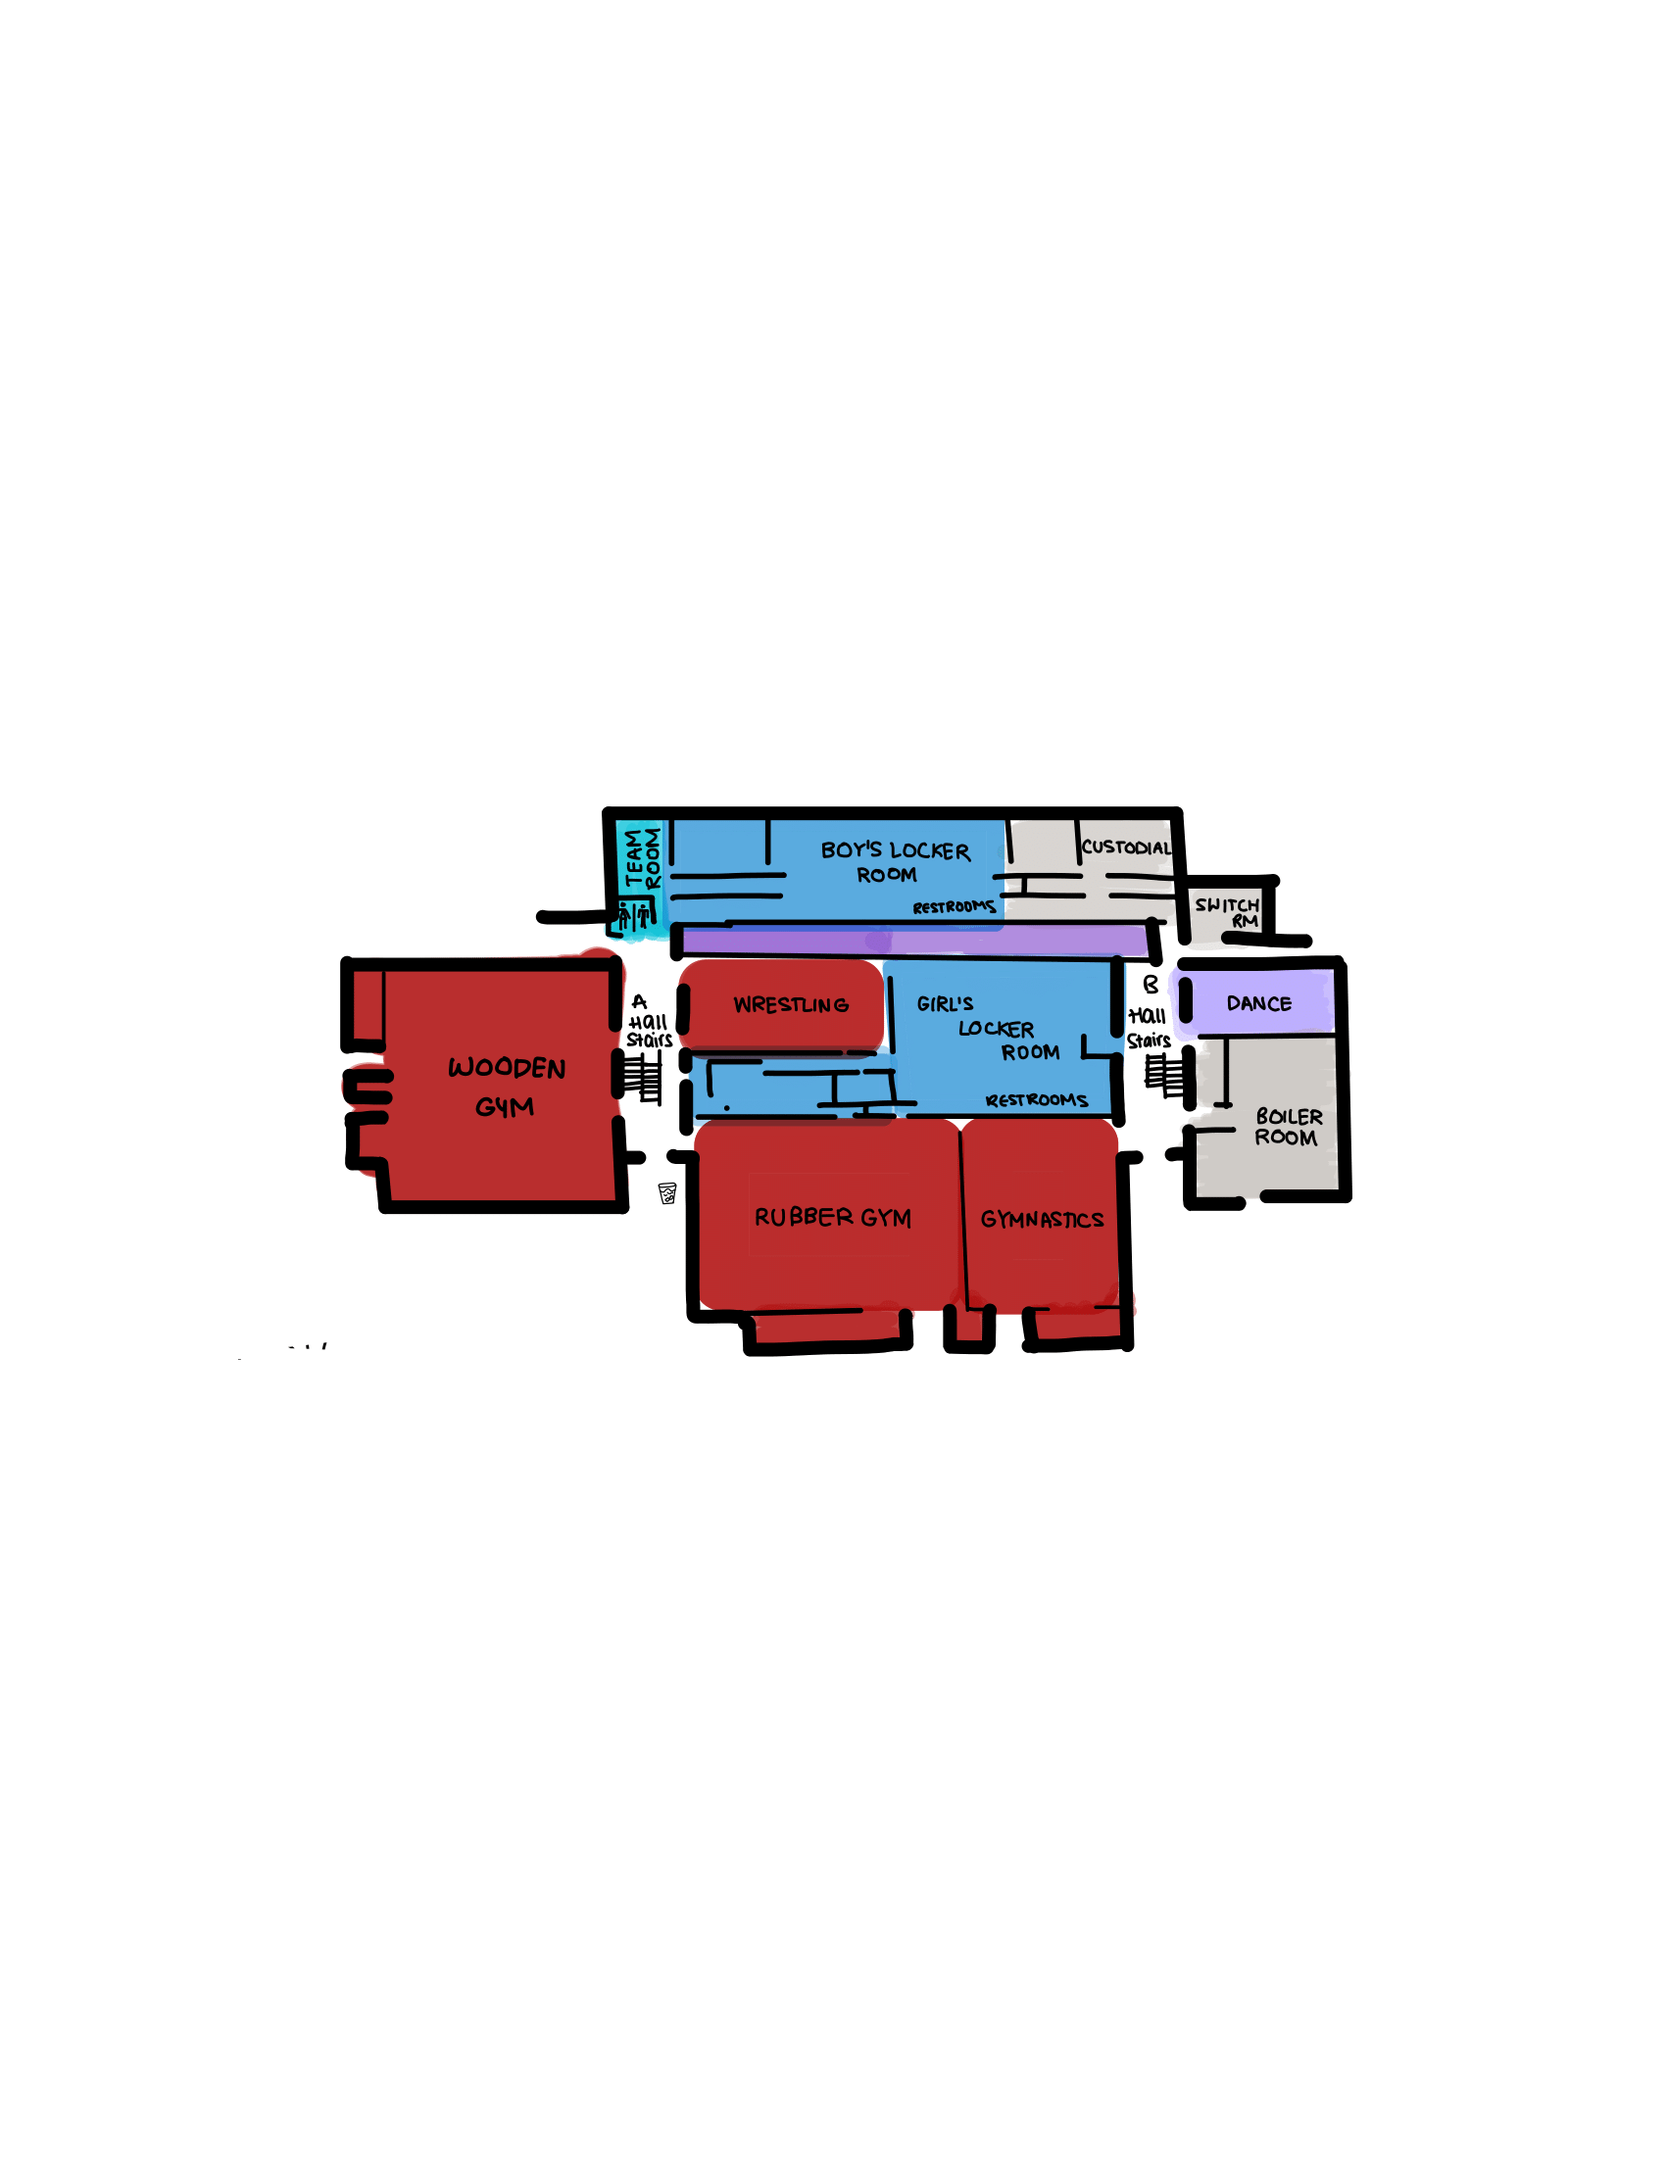
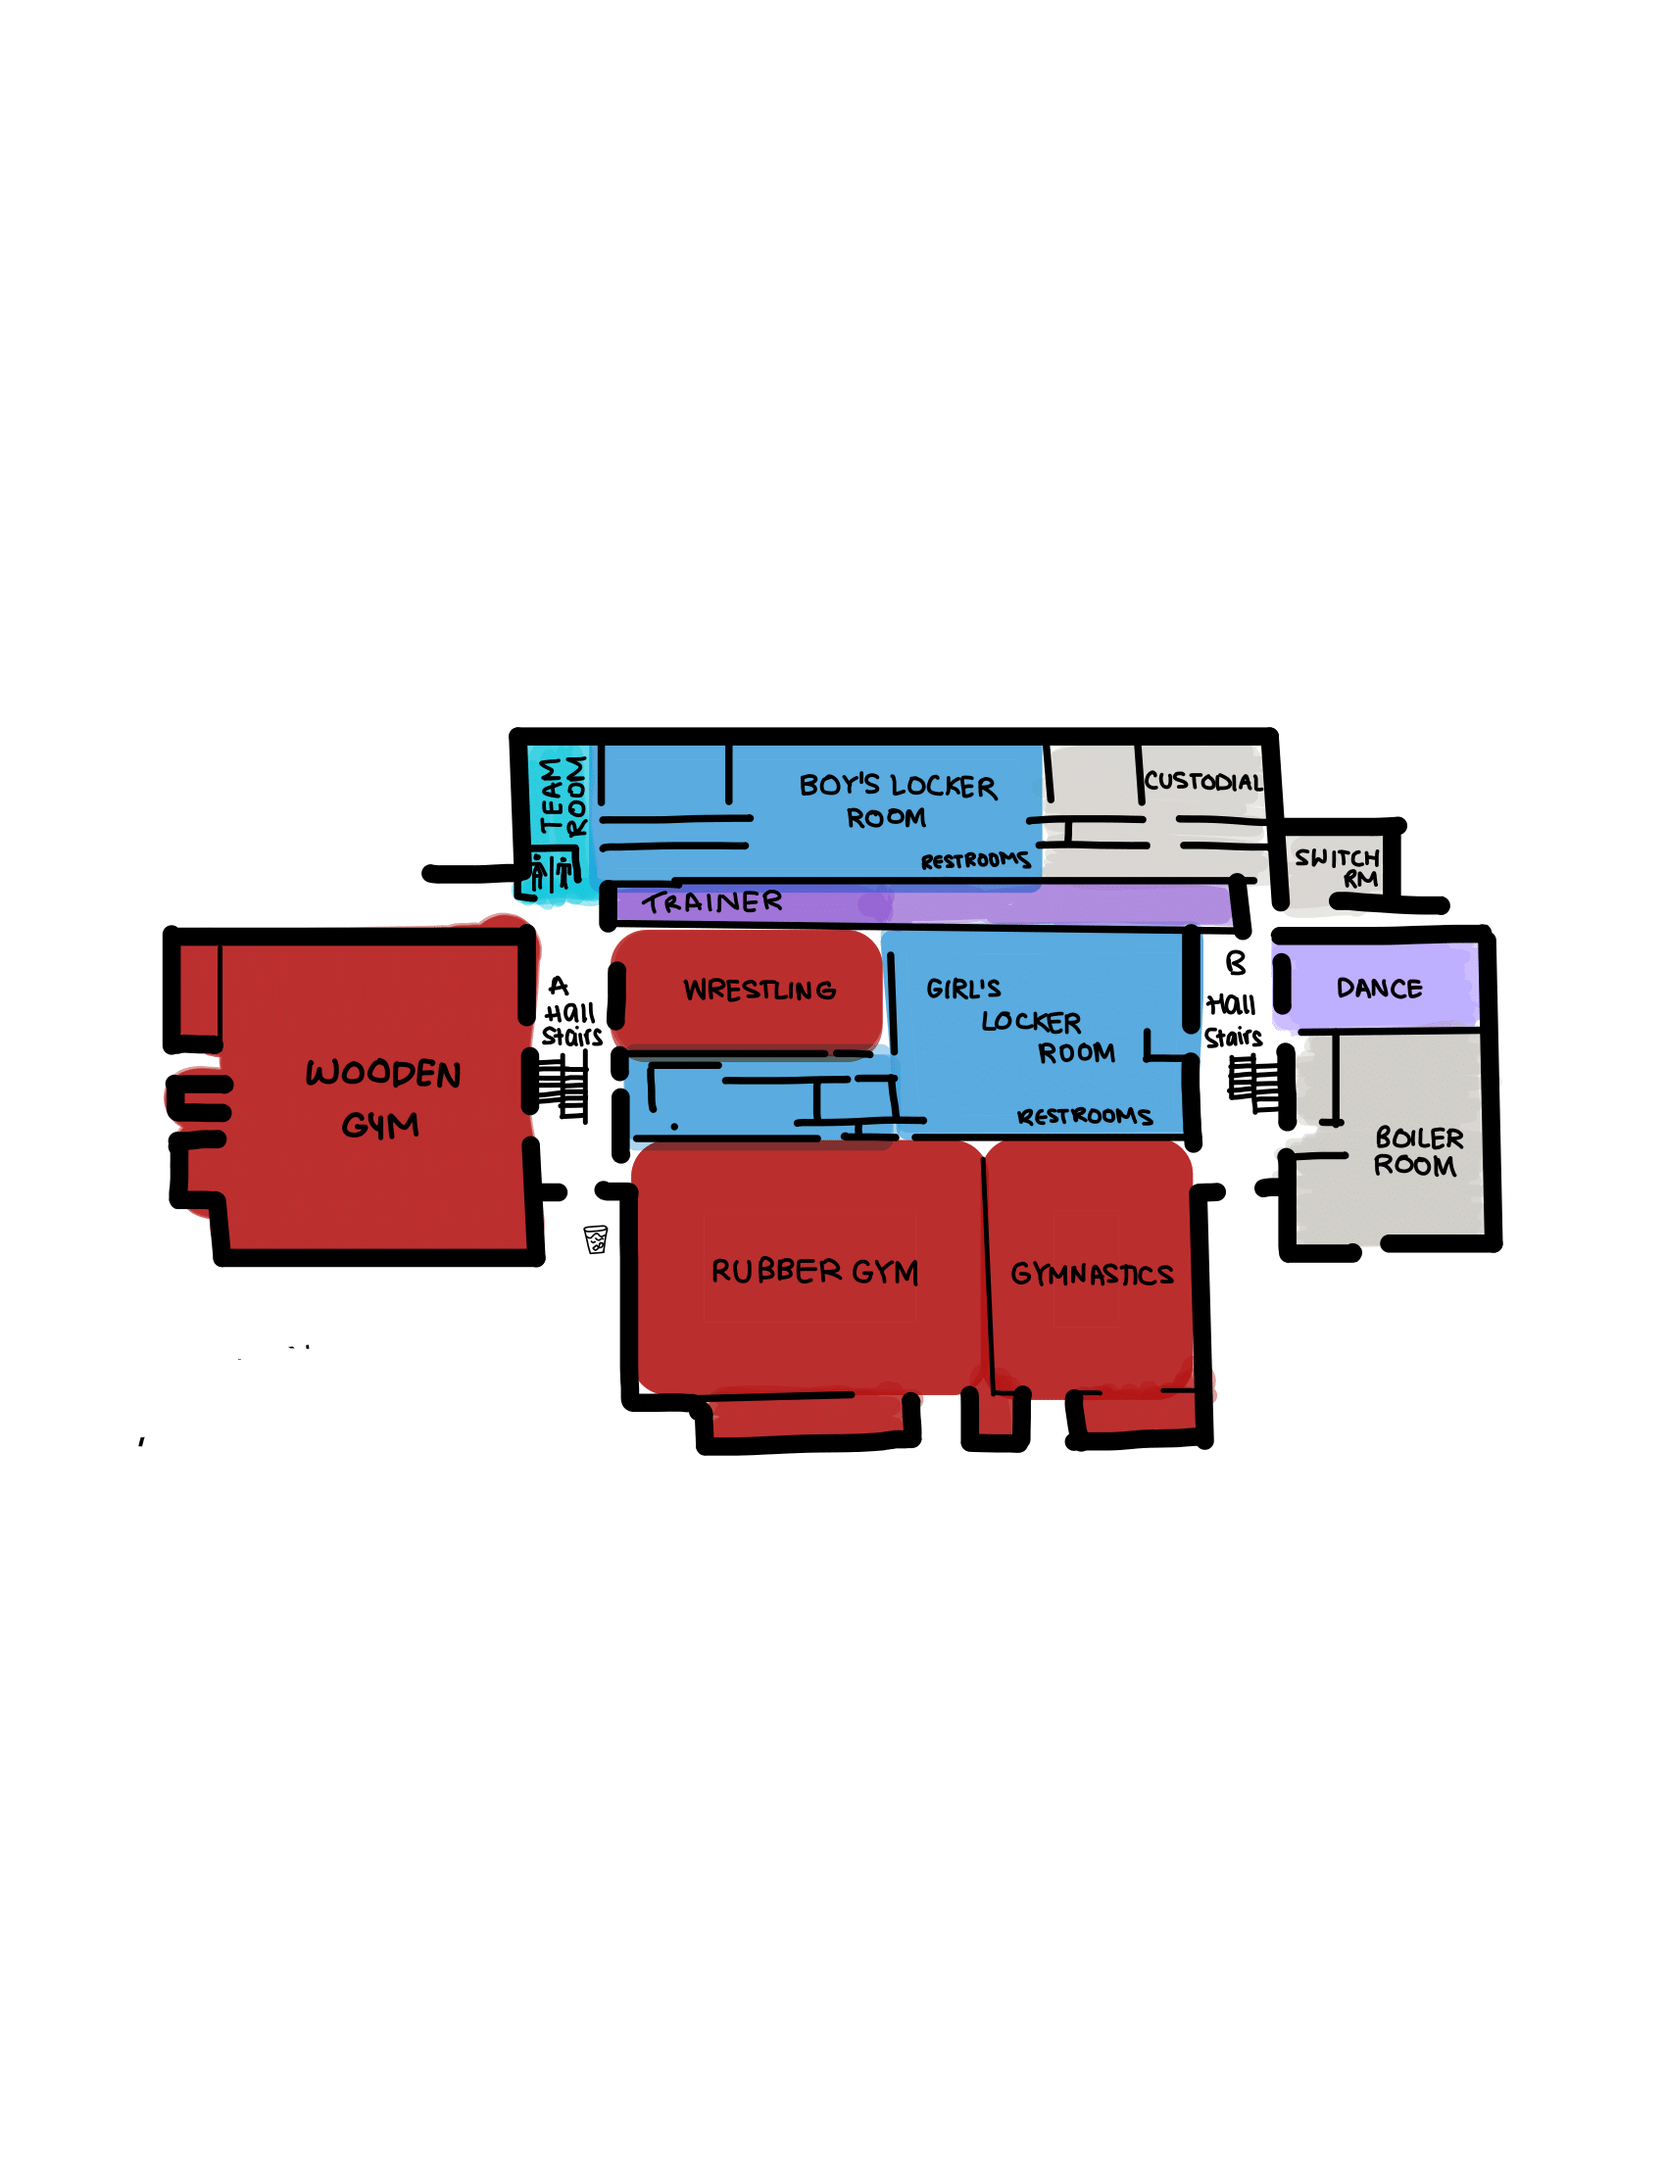
Updated to use new maps

Changed region(s): [[0.0935, 0.3103, 0.9041, 0.6826]]

diff --git a/lib/views/widgets/mapdisplay.dart b/lib/views/widgets/mapdisplay.dart
@@ -24,8 +24,8 @@ class _MapDisplayState extends State<MapDisplay> {
     bool showMarkers = Provider.of<MapProvider>(context).showMarkers;
     return OverflowBox(
       child: InteractiveViewer(
-        maxScale: 4.5,
-        minScale: 0.8,
+        maxScale: 3,
+        minScale: 0.5,
         constrained: false,
         boundaryMargin: const EdgeInsets.all(0),
         clipBehavior: Clip.hardEdge,
@@ -114,77 +114,76 @@ class _Floor1StackState extends State<Floor1Stack> {
         ),
       ),
       // * Dark Green (Health)
-      MapButton(id: "187", top: 200, left: 380),
-      MapButton(id: "188", top: 200, left: 415),
-      MapButton(id: "189", top: 200, left: 455),
-      MapButton(id: "190", top: 200, left: 495),
-      MapButton(id: "Fitness Center", top: 260, left: 460),
-      // MapButton(id: "???", top: 245, left: 540), //office (idk if we need it)
+      // MapButton(id: "154", top: 360, left: 660),
+      // MapButton(id: "152", top: 360, left: 720),
+      // MapButton(id: "Atheltic Director", top: 345, left: 780),
+      // MapButton(id: "150", top: 360, left: 850),
+      // MapButton(id: "Fitness Center", top: 470, left: 780),
+      // MapButton(id: "151", top: 430, left: 925),
 
       // * Light Purple (science)
-      MapButton(id: "174", top: 320, left: 380),
-      MapButton(id: "176", top: 320, left: 435),
-      MapButton(id: "177", top: 320, left: 480),
-      MapButton(id: "179", top: 320, left: 530),
-      MapButton(id: "165", top: 380, left: 375),
-      MapButton(id: "173", top: 380, left: 435),
-      MapButton(id: "172", top: 380, left: 480),
-      MapButton(id: "156", top: 380, left: 535),
-      MapButton(id: "164", top: 450, left: 375),
-      MapButton(id: "157", top: 450, left: 535),
-      MapButton(id: "163", top: 500, left: 375),
-      MapButton(id: "167", top: 480, left: 424),
-      MapButton(id: "168", top: 505, left: 424),
-      MapButton(id: "171", top: 480, left: 490),
-      MapButton(id: "170", top: 505, left: 490),
-      MapButton(id: "169 / Lecture Hall", top: 500, left: 460),
-      MapButton(id: "158", top: 500, left: 535),
-      // MapButton(id: "???", top: 455, left: 490), //office (idk if we need it)
+      // MapButton(id: "146", top: 560, left: 655),
+      // MapButton(id: "144", top: 560, left: 745),
+      // MapButton(id: "142", top: 560, left: 825),
+      // MapButton(id: "140", top: 560, left: 925),
+      // MapButton(id: "147", top: 660, left: 655),
+      // MapButton(id: "145", top: 660, left: 745),
+      // MapButton(id: "143", top: 660, left: 825),
+      // MapButton(id: "141", top: 660, left: 925),
+      // MapButton(id: "134", top: 785, left: 655),
+      // MapButton(id: "122", top: 785, left: 925),
+      // MapButton(id: "136", top: 860, left: 650),
+      // MapButton(id: "120", top: 860, left: 925),
+      // MapButton(id: "132", top: 830, left: 730),
+      // MapButton(id: "130", top: 880, left: 730),
+      // MapButton(id: "124", top: 830, left: 845),
+      // MapButton(id: "126", top: 880, left: 845),
+      // MapButton(id: "169 / Lecture Hall", top: 850, left: 790),
 
       // * Dark Blue (Music)
-      MapButton(id: "191 / Chorus", top: 355, left: 640),
-      MapButton(id: "192", top: 365, left: 688),
-      MapButton(id: "Band Room", top: 355, left: 745),
-      MapButton(id: "197 / Music Room", top: 405, left: 720),
-      MapButton(id: "Auditorium", top: 510, left: 725),
-      MapButton(id: "1SS", top: 405, left: 793), //! TODO: Figure out what room this is
-      MapButton(id: "155", top: 405, left: 813),
+      // MapButton(id: "161 / Chorus", top: 610, left: 1105),
+      // MapButton(id: "Band Room", top: 610, left: 1280),
+      // MapButton(id: "160", top: 700, left: 1210),
+      // MapButton(id: "162", top: 700, left: 1270),
+      // MapButton(id: "164", top: 700, left: 1380),
+      // MapButton(id: "Auditorium", top: 880, left: 1235),
 
       // * Red (Main Office)
-      MapButton(id: "Nurse", top: 630, left: 710),
-      MapButton(id: "Mail Room", top: 630, left: 790),
-      MapButton(id: "Main Office", top: 680, left: 665),
-      MapButton(id: "Guidance Conference", top: 680, left: 750),
-      MapButton(id: "Guidance", top: 680, left: 800),
+      // MapButton(id: "Nurse", top: 1080, left: 1235),
+      // MapButton(id: "Mail Room", top: 1080, left: 1360),
+      // MapButton(id: "Main Office", top: 1180, left: 1145),
+      // MapButton(id: "Guidance Conference", top: 1170, left: 1290),
+      // MapButton(id: "Guidance", top: 1170, left: 1380),
 
       // * Magenta (Cafeteria)
-      MapButton(id: "Cafeteria B", top: 790, left: 700),
-      MapButton(id: "Cafeteria A", top: 920, left: 680),
+      // MapButton(id: "Cafeteria B", top: 1350, left: 1210),
+      // MapButton(id: "Cafeteria A", top: 1580, left: 1180),
 
-      // * Orange (Foreign Languages?)
-      MapButton(id: "162", top: 548, left: 395),
-      MapButton(id: "161", top: 548, left: 440),
-      MapButton(id: "159", top: 548, left: 530),
-      MapButton(id: "137", top: 778, left: 390),
-      MapButton(id: "136", top: 778, left: 425),
-      MapButton(id: "134", top: 778, left: 530),
-      MapButton(id: "129", top: 830, left: 385),
-      MapButton(id: "128", top: 880, left: 385),
+      // * Orange (Foreign Languages)
+      // MapButton(id: "125", top: 940, left: 690),
+      // MapButton(id: "123", top: 940, left: 760),
+      // MapButton(id: "121", top: 940, left: 910),
+      // MapButton(id: "104", top: 1340, left: 670),
+      // MapButton(id: "102", top: 1340, left: 740),
+      // MapButton(id: "100", top: 1340, left: 910),
+      // MapButton(id: "109", top: 1430, left: 665),
+      // MapButton(id: "113", top: 1510, left: 665),
 
-      // * Yellow ()
-      MapButton(id: "130A", top: 820, left: 425),
-      MapButton(id: "130B", top: 845, left: 425),
-      MapButton(id: "133 / Bridge", top: 835, left: 462),
-      MapButton(id: "132", top: 820, left: 500),
-      MapButton(id: "132 B", top: 845, left: 500),
-      MapButton(id: "BCAT", top: 883, left: 423),
+      // * Yellow + Cyan ()
+      // MapButton(id: "107", top: 1410, left: 735),
+      // MapButton(id: "113", top: 1450, left: 735),
+      // MapButton(id: "101", top: 1410, left: 865),
+      // MapButton(id: "103", top: 1450, left: 865),
+      // MapButton(id: "105 / Bridge", top: 1430, left: 800),
+      // MapButton(id: "BCAT", top: 1515, left: 730),
+      // MapButton(id: "Area 123", top: 1610, left: 760),
 
       // * Light Green (Libary Area)
-      MapButton(id: "Lower Library", top: 610, left: 460),
-      MapButton(id: "Tech Offices", top: 660, left: 440),
-      MapButton(id: "Upper Library", top: 720, left: 460),
-      MapButton(id: "Writing Center", top: 590, left: 542),
-      MapButton(id: "Help Desk", top: 740, left: 374),
+      // MapButton(id: "Lower Library", top: 1040, left: 790),
+      // MapButton(id: "Tech Offices", top: 1140, left: 765),
+      // MapButton(id: "Upper Library", top: 1230, left: 790),
+      // MapButton(id: "Writing Center", top: 1010, left: 935),
+      // MapButton(id: "Help Desk", top: 1270, left: 650),
     ];
   }
 }
@@ -243,7 +242,7 @@ class _FloorBasementStackState extends State<FloorBasementStack> {
       children: widget.showIcons ? showLayoutWithIcons() : [
         Center(
           child: Image.asset(
-            "assets/img/map_floor2.png",
+            "assets/img/map_floorB.png",
           ),
         ),
       ],

diff --git a/lib/views/widgets/mapbutton.dart b/lib/views/widgets/mapbutton.dart
@@ -23,7 +23,7 @@ class _MapButtonState extends State<MapButton> {
     return Positioned(
       child: IconButton(
         padding: EdgeInsets.zero,
-        icon: Icon(Icons.place, color: widget.iconColor??Colors.red,),
+        icon: Icon(Icons.place, color: widget.iconColor??Colors.red, size: 32.0,),
         onPressed: () {
           print("ID: ${widget.id}");
           Provider.of<MapProvider>(context, listen: false).showOverlayFromProvider(RoomData.dataMap[widget.id]??MapObjectData("_error_ (${widget.id})"), context);
